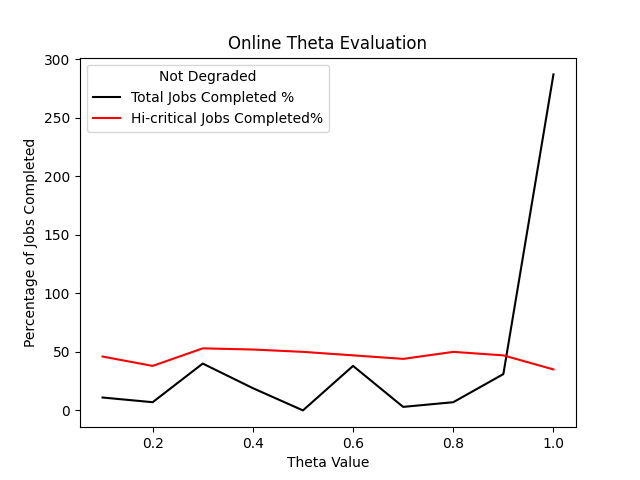
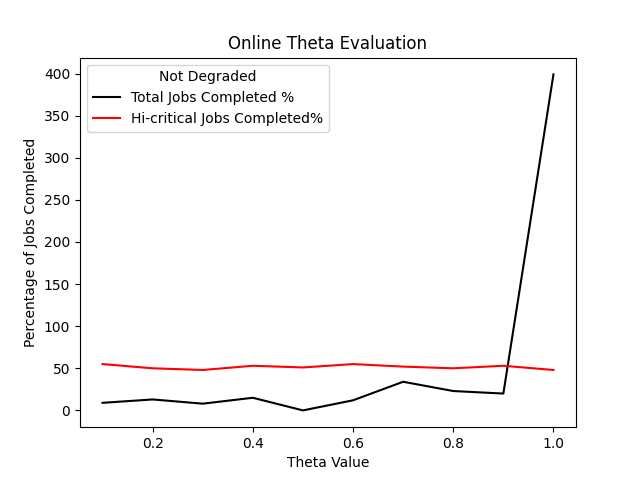
ss

diff --git a/Designning the System Latest/evaluation.py b/Designning the System Latest/evaluation.py
@@ -32,16 +32,18 @@ policy = agent.workers.local_worker().get_policy()
 accum = []
 HC_jobs_completed = np.zeros((100, 10))
 total_jobs_withHC = np.zeros((100, 10))
-
+print("DSpeed ",env.degradation_speed)
+print("My theta ",env.theta)
 for i in range(10):
-    #deg_speed = 0.1*(i+1)
+    deg_speed = 0.1*(i+1)
     theta = 0.1*(i+1)
     for j in range(100):
         obs = env.reset()
         #print(obs)
+        #print(obs)
         #print("Obse was printed above: \n")
-        #env.degradation_schedule = 0
-        #env.degradation_speed = 1
+        env.degradation_schedule = 0
+        env.degradation_speed = 1
         env.theta = theta
         total = 0
         for m in range(10):

diff --git a/Designning the System Latest/env/job_gen_env_filtered.py b/Designning the System Latest/env/job_gen_env_filtered.py
@@ -569,6 +569,7 @@ class MCOEnv(gym.Env):
             # print("Number of jobs: ", Hi_num)
             # print("Hi Percentage completed: ", Hi_perc)
             #exist is to handle the case of I don't have Hi-critical jobs at all
+            print("This is my theta new: ",self.theta)
             if  done and exist:
                 if ((Hi_done/Hi_num) == self.theta):
                     reward += np.sum(self.workload[:, 6])
